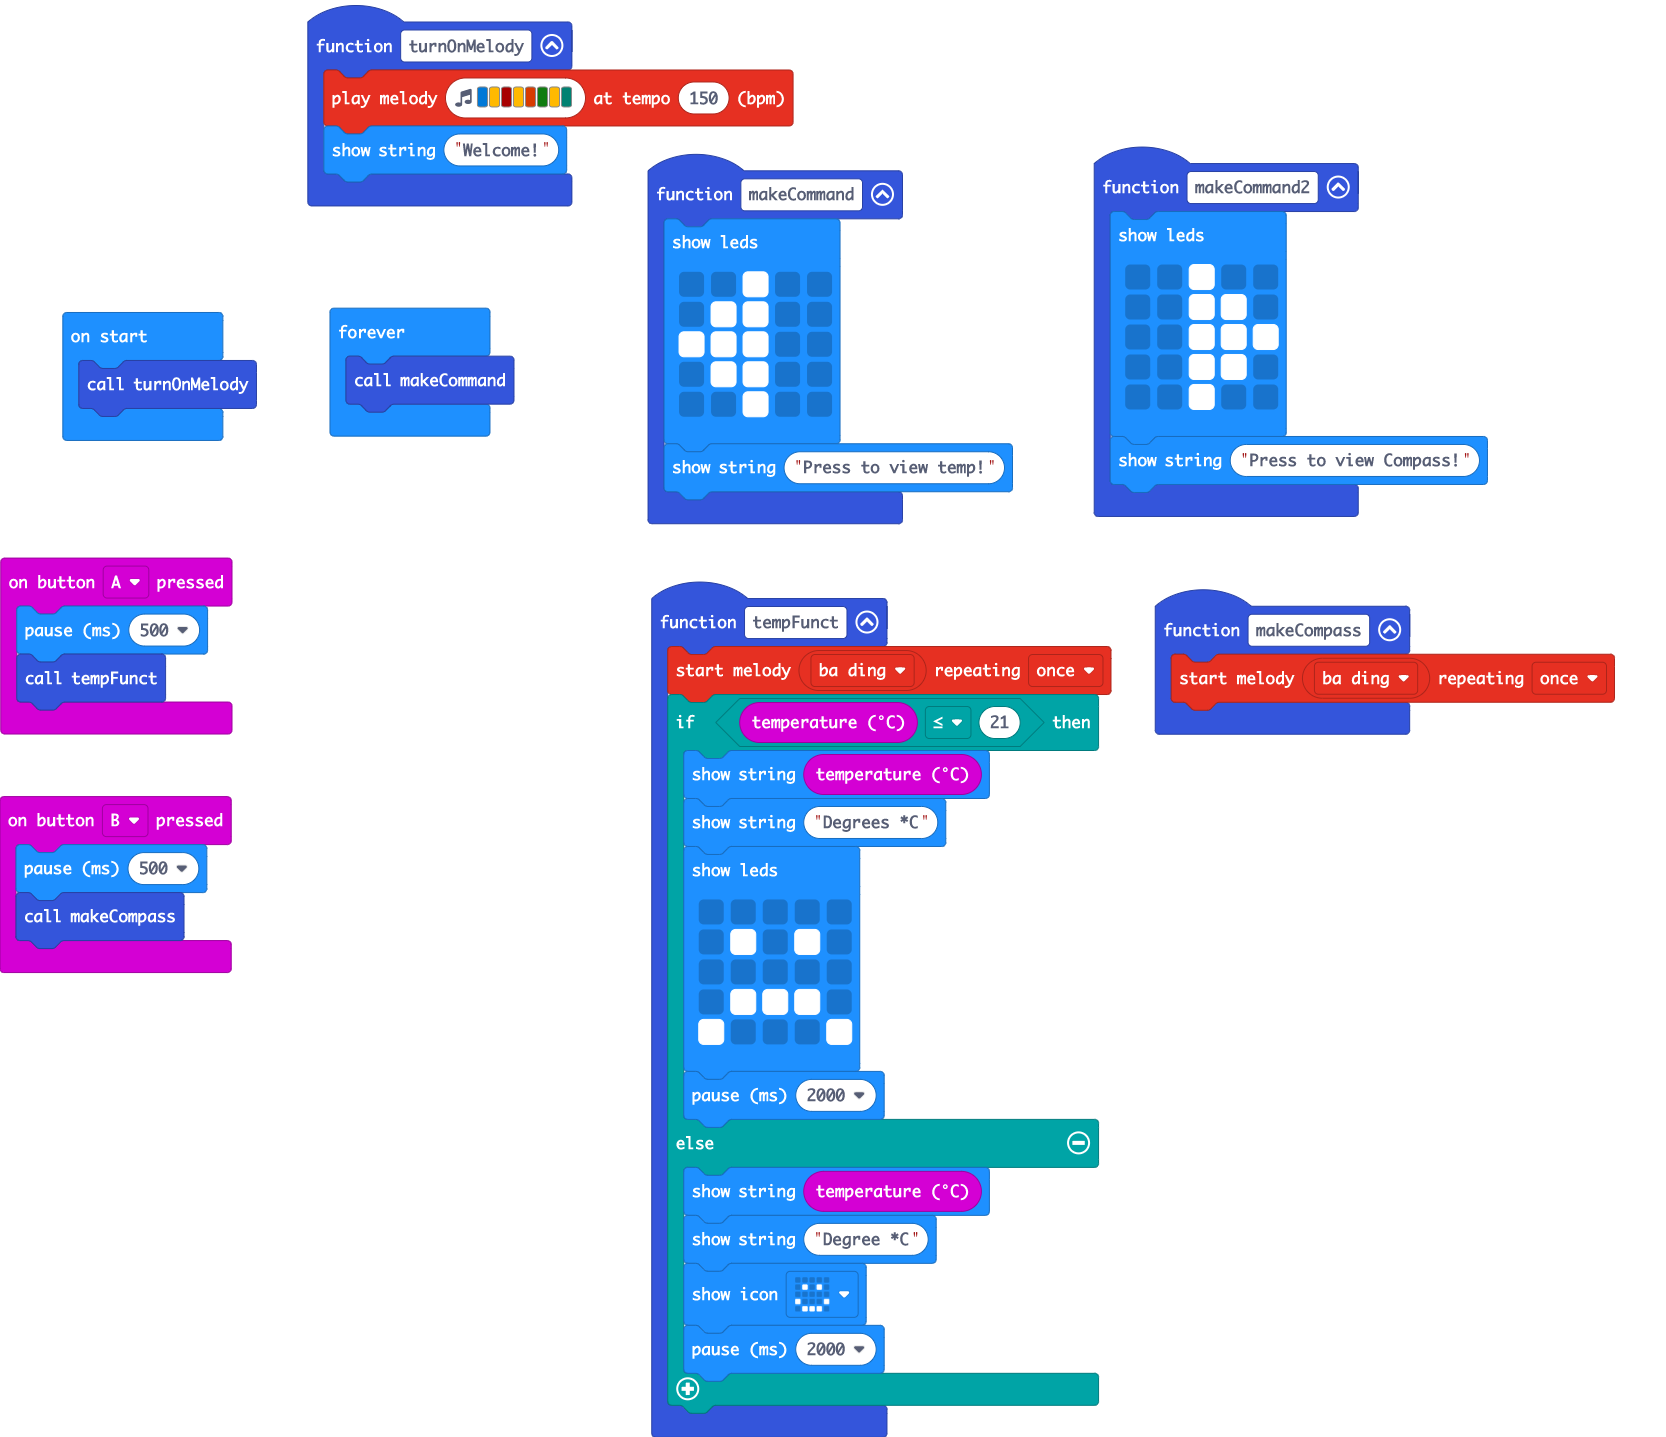
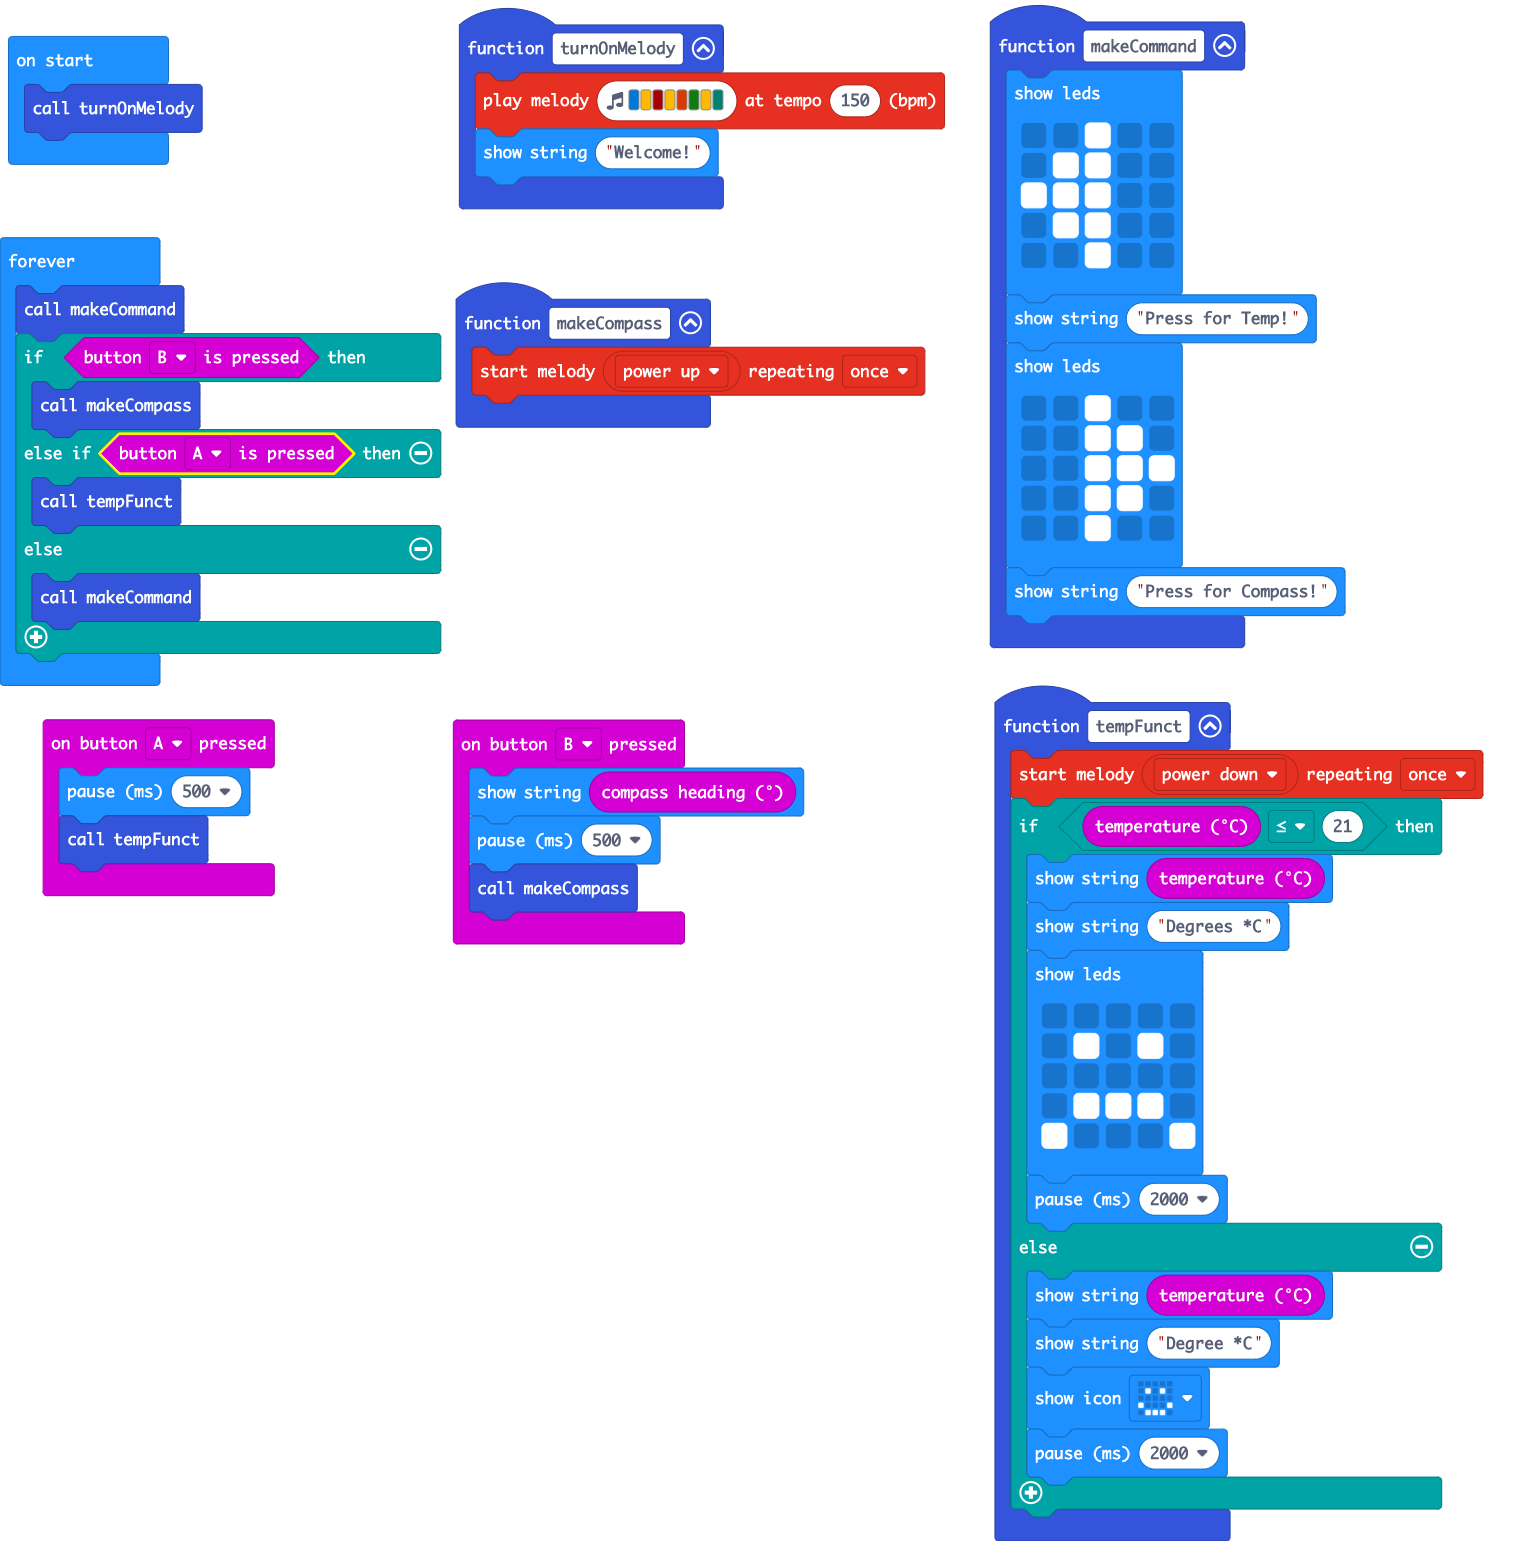
Update main.blocks, main.ts

diff --git a/main.ts b/main.ts
@@ -3,7 +3,7 @@ input.onButtonPressed(Button.A, function () {
     tempFunct()
 })
 function makeCompass () {
-    music.startMelody(music.builtInMelody(Melodies.BaDing), MelodyOptions.Once)
+    music.startMelody(music.builtInMelody(Melodies.PowerUp), MelodyOptions.Once)
 }
 function makeCommand () {
     basic.showLeds(`
@@ -13,14 +13,23 @@ function makeCommand () {
         . # # . .
         . . # . .
         `)
-    basic.showString("Press to view temp!")
+    basic.showString("Press for Temp!")
+    basic.showLeds(`
+        . . # . .
+        . . # # .
+        . . # # #
+        . . # # .
+        . . # . .
+        `)
+    basic.showString("Press for Compass!")
 }
 input.onButtonPressed(Button.B, function () {
+    basic.showString("" + (input.compassHeading()))
     basic.pause(500)
     makeCompass()
 })
 function tempFunct () {
-    music.startMelody(music.builtInMelody(Melodies.BaDing), MelodyOptions.Once)
+    music.startMelody(music.builtInMelody(Melodies.PowerDown), MelodyOptions.Once)
     if (input.temperature() <= 21) {
         basic.showString("" + (input.temperature()))
         basic.showString("Degrees *C")
@@ -43,17 +52,14 @@ function turnOnMelody () {
     music.playMelody("E A C5 A B G A F ", 150)
     basic.showString("Welcome!")
 }
-function makeCommand2 () {
-    basic.showLeds(`
-        . . # . .
-        . . # # .
-        . . # # #
-        . . # # .
-        . . # . .
-        `)
-    basic.showString("Press to view Compass!")
-}
 turnOnMelody()
 basic.forever(function () {
     makeCommand()
+    if (input.buttonIsPressed(Button.B)) {
+        makeCompass()
+    } else if (input.buttonIsPressed(Button.A)) {
+        tempFunct()
+    } else {
+        makeCommand()
+    }
 })
